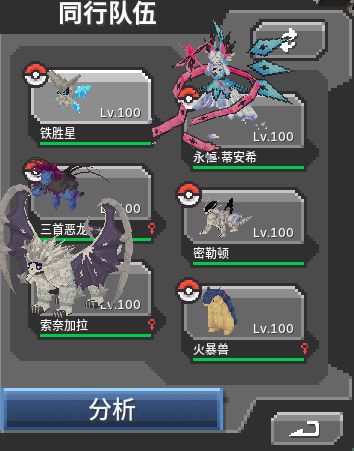
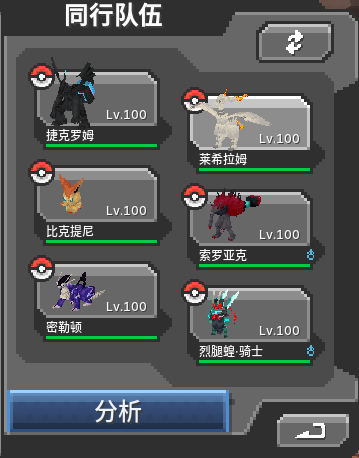
更新 Acaciay 参赛阵容

diff --git a/mega-link-tournament/index.html b/mega-link-tournament/index.html
@@ -533,7 +533,7 @@
         id: "acaciay",
         name: "Acaciay",
         teamImage: "acaciay-team.png",
-        members: ["铁胜星", "永恒·毒安希", "三首恶龙", "密勒顿", "索奈加拉", "火暴兽"]
+        members: ["捷克罗姆", "莱希拉姆", "比克提尼", "索罗亚克", "密勒顿", "烈腿蝗-骑士"]
       },
       {
         id: "xiao_hui_c233",
